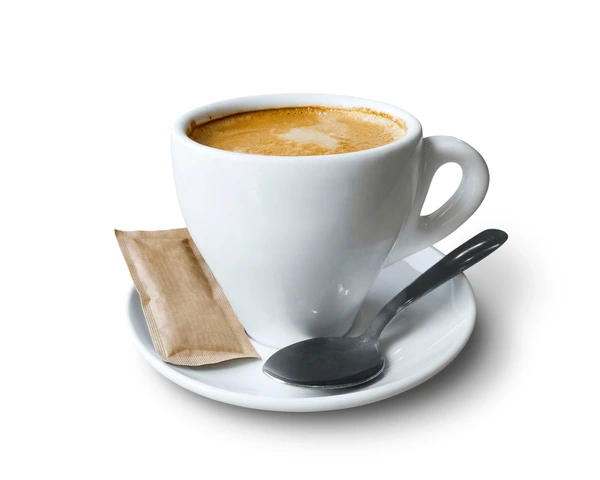
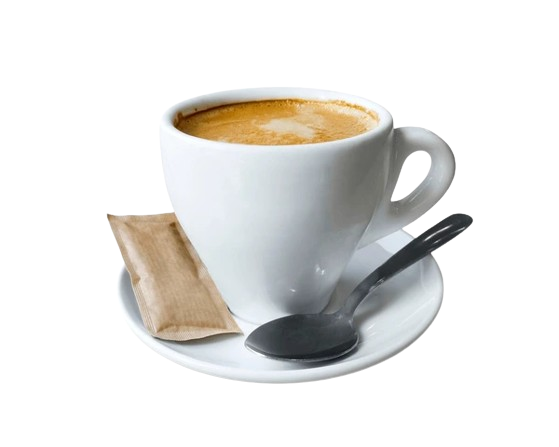
add of splash_screen in the project

diff --git a/lib/routes/app_routes.dart b/lib/routes/app_routes.dart
@@ -3,6 +3,8 @@ import 'package:restaurant/presentation/login_screen/binding/login_binding.dart'
 import 'package:restaurant/presentation/login_screen/login_screen.dart';
 import 'package:restaurant/presentation/register_screen/binding/register_binding.dart';
 import 'package:restaurant/presentation/register_screen/register_screen.dart';
+import 'package:restaurant/presentation/splash_screen/binding/splash_binding.dart';
+import 'package:restaurant/presentation/splash_screen/splash_screen.dart';
 // import 'package:restaurant/presentation/splash_screen/bindings/onboarding_binding.dart';
 
 import '../presentation/home_one_screen/bindings/home_one_binding.dart';
@@ -14,6 +16,7 @@ import '../presentation/onboarding_screen/bindings/onboarding_binding.dart';
 
 class AppRoutes {
   static const String initialRoute = '/initialRoute';
+  static const String onboardingScreen = '/onboarding_screen';
   static const String homeOneScreen = '/home_one_screen';
   static const String homeScreen = '/home_screen';
   static const String loginScreen = '/login_screen';
@@ -22,6 +25,10 @@ class AppRoutes {
   static List<GetPage> pages = [
     GetPage(
         name: initialRoute,
+        page: () => SplashScreen(),
+        bindings: [SplashBinding()]),
+    GetPage(
+        name: onboardingScreen,
         page: () => OnboardingScreen(),
         bindings: [OnboardingBinding()]),
     GetPage(

diff --git a/lib/presentation/splash_screen/splash_screen.dart b/lib/presentation/splash_screen/splash_screen.dart
@@ -1,0 +1,38 @@
+import 'package:animated_splash_screen/animated_splash_screen.dart';
+import 'package:flutter/cupertino.dart';
+import 'package:flutter/material.dart';
+import 'package:get/get.dart';
+import 'package:restaurant/core/app_export.dart';
+import 'package:restaurant/presentation/onboarding_screen/Onboarding_screen.dart';
+import 'package:restaurant/presentation/splash_screen/controller/splash_controller.dart';
+import 'package:page_transition/page_transition.dart';
+
+class SplashScreen extends GetWidget<SplashController> {
+  const SplashScreen({super.key});
+
+  @override
+  Widget build(BuildContext context) {
+    return Scaffold(
+      body: AnimatedSplashScreen(
+          splash: Column(
+            mainAxisAlignment: MainAxisAlignment.center,
+            children: [
+              Container(
+                height: 200,
+                width: 200,
+                child: Image.asset(
+                  ImageConstant.imgLogo1,
+                  fit: BoxFit.cover,
+                ),
+              )
+            ],
+          ),
+          duration: 3000,
+          splashIconSize: 500,
+          splashTransition: SplashTransition.scaleTransition,
+          pageTransitionType: PageTransitionType.leftToRight,
+          animationDuration: Duration(seconds: 2),
+          nextScreen: OnboardingScreen()),
+    );
+  }
+}

diff --git a/lib/presentation/splash_screen/controller/splash_controller.dart b/lib/presentation/splash_screen/controller/splash_controller.dart
@@ -1,0 +1,18 @@
+import 'package:get/get.dart';
+import 'package:restaurant/presentation/onboarding_screen/controller/Onboarding_controller.dart';
+
+class SplashController extends GetxController {
+  @override
+  void onReady() {
+    Future.delayed(const Duration(milliseconds: 3000), () async {
+      Get.lazyPut(() => OnboardingController());
+      // String token = await getSharedPrefReturn(prefToken);
+      // if (token.isNull || token.isEmpty || token == "null") {
+      //   Get.offNamedUntil(AppRoutes.welcomeScreen, (route) => false);
+      // } else {
+      //   // findAuthUser();
+      // }
+    });
+    super.onReady();
+  }
+}

diff --git a/lib/presentation/onboarding_screen/Onboarding_screen.dart b/lib/presentation/onboarding_screen/Onboarding_screen.dart
@@ -51,7 +51,8 @@ class OnboardingScreen extends GetWidget<OnboardingController> {
                     height: 300,
                     decoration: BoxDecoration(
                         image: DecorationImage(
-                            image: AssetImage(ImageConstant.imgLogo1),
+                            image: AssetImage(
+                                ImageConstant.imgCoffeeCupSaucerTeaspoon),
                             fit: BoxFit.cover)),
                   )),
               Positioned(

diff --git a/lib/presentation/splash_screen/binding/splash_binding.dart b/lib/presentation/splash_screen/binding/splash_binding.dart
@@ -1,0 +1,9 @@
+import 'package:get/get.dart';
+import 'package:restaurant/presentation/splash_screen/controller/splash_controller.dart';
+
+class SplashBinding extends Bindings {
+  @override
+  void dependencies() {
+    Get.lazyPut(() => SplashController());
+  }
+}
